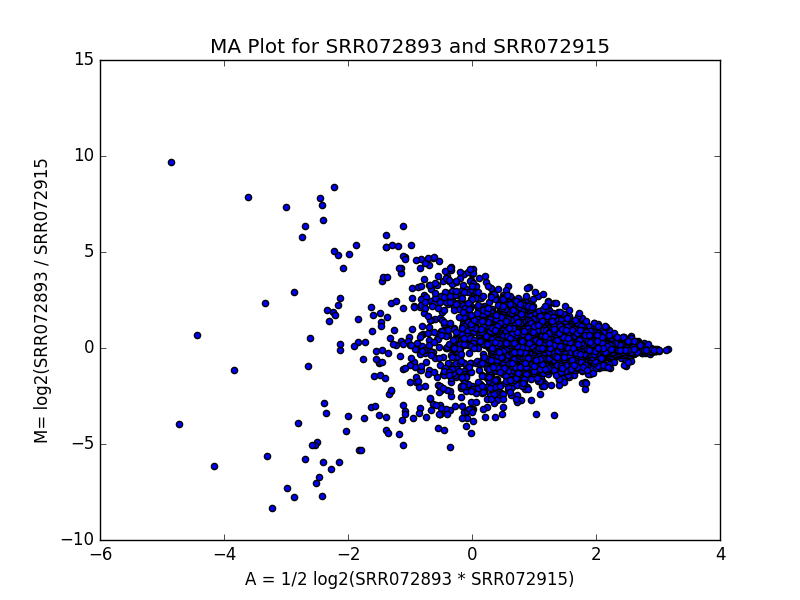
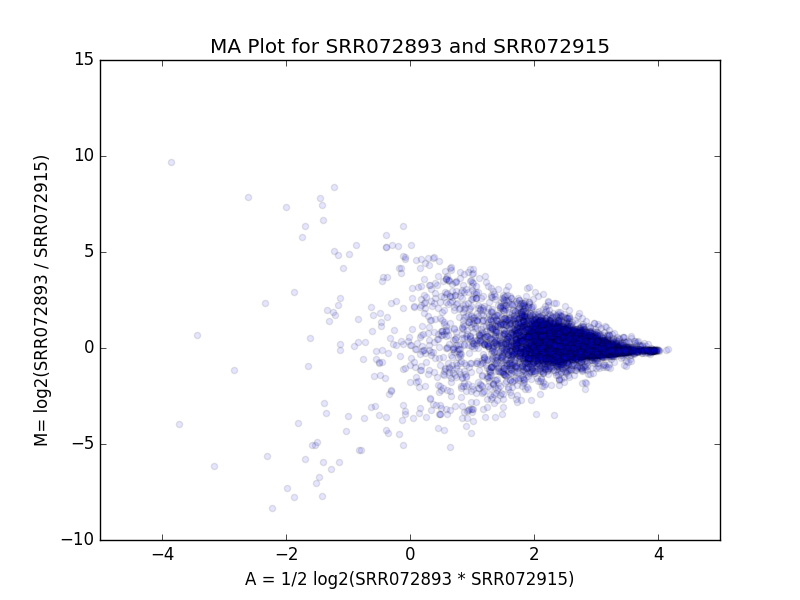
Day 4 and 5 answers

diff --git a/day5-afternoon/findRegion.py b/day5-afternoon/findRegion.py
@@ -1,0 +1,50 @@
+#!/usr/bin/env  python
+
+import sys
+import pandas as pd
+import numpy as np
+
+#import files
+df = pd.read_table( sys.argv[1])
+
+#cut out shitty chromosmes
+df_trans = df.loc[df["chr"].isin(["2L", "2R", "3L", "3R", "4", "X"])]
+
+#make the plus strands
+df_roi = df_trans[ "strand" ] == "+"
+df_pls = df_trans[ df_roi ]
+
+#extend the start possition for plus strand
+df_pls["start"] = df_pls[ "start" ] - 500
+df_pls["end"] = df_pls["start"]+ 1000
+
+#make a plus strand data frame
+selected = ["chr", "start","end","t_name"]
+df_pls_bed = pd.DataFrame(df_pls, columns = selected)
+
+#---- and now minus
+
+#make the minus strands
+df_roi = df_trans[ "strand" ] == "-"
+df_mins = df_trans[ df_roi ]
+
+#extend the start possition for minus strand
+df_mins["end"] = df_mins[ "end" ] + 500
+df_mins["start"] = df_mins["end"]- 1000
+
+#make a minus strand data frame
+selected = ["chr", "start","end","t_name"]
+df_mins_bed = pd.DataFrame(df_mins, columns = selected)
+
+#---- name a new file
+
+# make a new concatinated file
+frames = [ df_pls_bed, df_mins_bed ]
+merged_bed = pd.concat(frames)
+
+#save tab delimited file
+merged_bed.to_csv("promoter.bed", sep='\t', index = False, header= False)
+
+#chromosome start end t_name
+
+#numpy.savetxt(fname, X, fmt='%.18e', delimiter=' ', newline='\n', header='', footer='', comments='# ')[source]

diff --git a/day4-afternoon/01-timeCourse.py b/day4-afternoon/01-timeCourse.py
@@ -1,0 +1,35 @@
+#!/usr/bin/env python
+"""
+Usage: ./01timeCourse.py <metadata.csv> <ctab_dir>
+ e.g. ./01-timecourse.py samples.csv ~dta/results/stringie
+"""
+
+import sys
+import pandas as pd
+import matplotlib.pyplot as plt
+
+df_meta = pd.read_csv( sys.argv[1])
+ctab_dir = sys.argv[2]
+
+fem_Sxl = []
+
+df_roi = df_meta[ "sex" ] == "female"
+# check if it is a data frame: print type df_meta[ df_roi ]
+
+for sample in df_meta[ df_roi ][ "sample" ]:
+    filename = ctab_dir + "/" + sample + "/t_data.ctab"
+    df = pd.read_table( filename )
+    
+    df_roi2 = df[ "t_name"] == "FBtr0331261"
+    fem_Sxl.append( df[ df_roi2 ][ "FPKM" ].values )
+    
+
+# we just need: [1, 0, 10, 50, 100], a list of the mRNA abundances for one gene: sxl to be able to populate our plot
+
+plt.figure()
+plt.plot( fem_Sxl )
+plt.show( )
+#plt.savefig( "timecourse.png" )
+#plt.close()
+
+print "all finished"

diff --git a/day4-afternoon/05-densityPlot.py b/day4-afternoon/05-densityPlot.py
@@ -6,7 +6,6 @@ Function: reate a histogram of the FPKM values for a ctab file
 
 usage: ./03-histogram.py <datafile.ctab>
 
-
 """
 
 #imports
@@ -20,7 +19,7 @@ from scipy.stats import gaussian_kde
 df = pd.read_table( sys.argv[1])
 
 #Plot data
-data = df[ "FPKM" ]
+data = np.log(df[ "FPKM" ]+1)
 density = gaussian_kde(data)
 xs = np.linspace( np.min(data), np.max(data) , 1000)
 density.covariance_factor = lambda : .5
@@ -28,7 +27,8 @@ density._compute_covariance()
 plt.figure()
 plt.plot(xs,density(xs))
 plt.title( "Density plot of the FPKM values for SRR072893")
-plt.ylabel( "Density" )
+plt.ylabel( "Probability Density" )
+plt.xlabel( "log(FPKM)" )
 plt.savefig( "densityPlot.png" )
 plt.close()
 

diff --git a/day4-afternoon/04-MApot.py b/day4-afternoon/04-MApot.py
@@ -23,13 +23,13 @@ df2 = pd.read_table( sys.argv[2] )
 df_roi = np.log( df[ "FPKM"] )
 df2_roi = np.log( df2[ "FPKM"] )
 
-m = np.log2(df_roi) - np.log2(df2_roi)
-a = np.divide( ( np.log2( df_roi ) + np.log2( df2_roi ) ), 2 )
+m = (np.log2(df_roi)+1) - (np.log2(df2_roi)+1)
+a = np.divide( ( (np.log2( df_roi )+1) + (np.log2( df2_roi )+1) ), 2 )
 
 plt.figure()
 plt.title( "MA Plot for SRR072893 and SRR072915")
-plt.scatter( a, m )
+plt.scatter( a, m, alpha = 0.1 )
 plt.xlabel("A = 1/2 log2(SRR072893 * SRR072915)")             
-plt.ylabel( "M= log2(SRR072893 / SRR072915")
+plt.ylabel( "M= log2(SRR072893 / SRR072915)")
 plt.savefig( "MAplot.png")
 plt.close()

diff --git a/day5-afternoon/linearRegression.py b/day5-afternoon/linearRegression.py
@@ -1,0 +1,32 @@
+#!/usr/bin/env python
+
+#import packages
+import sys
+import pandas as pd
+import matplotlib.pyplot as plt
+import numpy as np
+import statsmodels.api as sm
+
+#import data
+df_fpkm = pd.read_table( sys.argv[1], header= None)
+df_mark = pd.read_table( sys.argv[2], header= None)
+
+newDataFrame = df_fpkm.merge(df_mark, left_on=0, right_on=0)
+
+#print newDataFrame
+#we want column 4 from the bw output-y and 0 fpkm-x
+
+
+# Fit regression model
+results = sm.OLS( newDataFrame[2], newDataFrame[5] ).fit()
+
+# Inspect the results
+print results.summary()
+
+
+
+
+
+
+
+

diff --git a/day4-afternoon/03-histogram.py b/day4-afternoon/03-histogram.py
@@ -12,7 +12,9 @@ usage: ./03-histogram.py <datafile.ctab>
 import sys
 import pandas as pd
 import matplotlib.pyplot as plt
+plt.style.use('ggplot')
 import numpy as np
+
 
 #import data
 df = pd.read_table( sys.argv[1])
@@ -24,6 +26,6 @@ df_filter = df[ df_roi ]
 
 plt.figure()
 plt.title( "Histogram of SRR072893 FPKM Values")
-plt.hist( np.log( df_filter[ "FPKM" ] ) )
+plt.hist( np.log( df_filter[ "FPKM" ] ), bins=100 )
 plt.savefig( "histSRR072893.png")
 plt.close()
